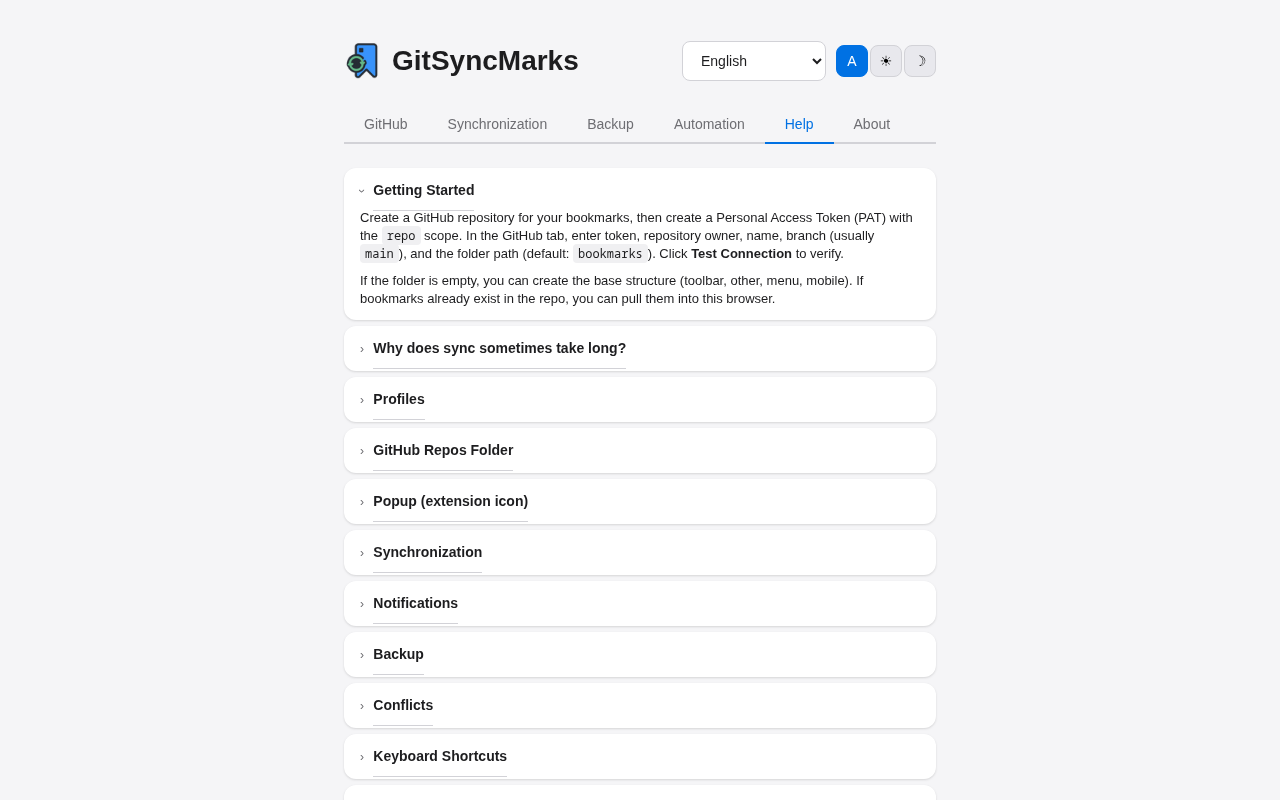
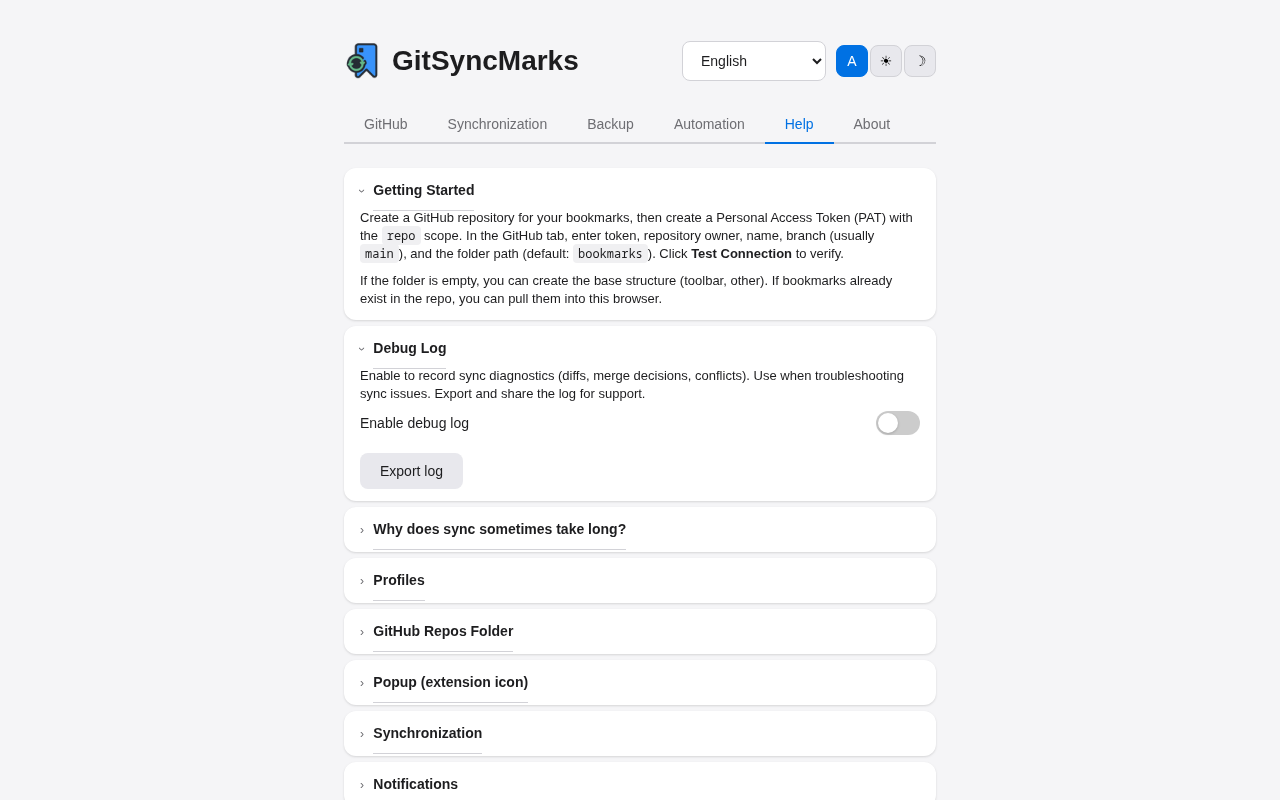
feat: update bookmark profiles and add mobile app details
- Expanded the bookmark profiles feature to support up to 10 profiles with separate GitHub repositories, enhancing user flexibility.
- Added keyboard shortcuts for quick sync and settings access, improving user efficiency.
- Introduced a debug log feature for sync diagnostics, aiding in troubleshooting.
- Included information about the mobile companion app, GitSyncMarks-Mobile, across multiple language sections, ensuring comprehensive user guidance.

diff --git a/store-assets/chrome-store.md b/store-assets/chrome-store.md
@@ -17,7 +17,7 @@ Features:
 • Per-file storage: each bookmark is an individual JSON file — human-readable and diff-friendly
 • Three-way merge: automatic conflict-free sync when changes happen on both sides
 • Cross-browser: works with Chrome, Chromium, Brave, Edge, and Firefox
-• Multiple bookmark profiles: work and personal sets with separate GitHub repos; switch replaces local bookmarks
+• Multiple bookmark profiles: up to 10 profiles with separate GitHub repos; switch replaces local bookmarks
 • GitHub Repos folder: optional folder with bookmarks to all your GitHub repositories (public and private)
 • Onboarding: create folder or pull bookmarks when configuring a new profile
 • Sync profiles: real-time, frequent, normal, or power-save (preset intervals and debounce)
@@ -30,6 +30,9 @@ Features:
 • Import/Export: back up and restore bookmarks or settings as JSON files (clear UI with file picker)
 • Theme: light, dark, or auto (system) for options and popup
 • Multilanguage: English, German, French, and Spanish with manual language selection
+• Keyboard shortcuts: quick sync (Ctrl+Shift+.), open settings (Ctrl+Shift+,) — customizable
+• Debug log: Help tab — enable for sync diagnostics, export for troubleshooting
+• Mobile companion: GitSyncMarks-Mobile (iOS + Android) — view bookmarks on the go, read-only sync from your repo
 • No external server — communicates directly with the GitHub API using your Personal Access Token
 
 How it works:
@@ -48,6 +51,8 @@ You can add bookmarks without even opening the browser. GitSyncMarks includes a 
 You can also create bookmark files directly in the repository — just add a JSON file with "title" and "url" to any bookmark folder. The extension detects new files automatically on the next sync and normalizes them into its canonical format.
 
 GitSyncMarks is fully open source: https://github.com/d0dg3r/GitSyncMarks
+
+Mobile app: GitSyncMarks-Mobile (iOS + Android) — view your bookmarks on the go. Read-only companion; F-Droid and Google Play coming soon. https://github.com/d0dg3r/GitSyncMarks-Mobile
 
 ### Category
 Productivity
@@ -72,7 +77,7 @@ Funktionen:
 • Einzeldatei-Speicherung: Jedes Lesezeichen ist eine eigene JSON-Datei — lesbar und diff-freundlich
 • Drei-Wege-Merge: automatische konfliktfreie Synchronisierung bei Änderungen auf beiden Seiten
 • Cross-Browser: funktioniert mit Chrome, Chromium, Brave, Edge und Firefox
-• Mehrere Lesezeichen-Profile: Arbeit und Privat mit getrennten GitHub-Repos; Wechsel ersetzt lokale Lesezeichen
+• Mehrere Lesezeichen-Profile: bis zu 10 Profile mit getrennten GitHub-Repos; Wechsel ersetzt lokale Lesezeichen
 • GitHub-Repos-Ordner: optionaler Ordner mit Lesezeichen zu allen deinen GitHub-Repositories (öffentlich und privat)
 • Onboarding: Ordner anlegen oder Lesezeichen laden beim Konfigurieren eines neuen Profils
 • Sync-Profile: Echtzeit, häufig, normal oder Stromsparen (vorkonfigurierte Intervalle)
@@ -85,6 +90,9 @@ Funktionen:
 • Import/Export: Lesezeichen oder Einstellungen als JSON-Dateien sichern und wiederherstellen (klare UI mit Dateiauswahl)
 • Design: Hell, Dunkel oder Auto (System) für Einstellungen und Popup
 • Mehrsprachig: Englisch, Deutsch, Französisch und Spanisch mit manueller Sprachauswahl
+• Tastenkürzel: Schnell-Sync (Strg+Umschalt+.), Einstellungen öffnen (Strg+Umschalt+,) — anpassbar
+• Debug-Log: Hilfe-Tab — für Sync-Diagnostik aktivierbar, exportierbar
+• Mobile-Begleiter: GitSyncMarks-Mobile (iOS + Android) — Lesezeichen unterwegs ansehen
 • Kein externer Server — kommuniziert direkt mit der GitHub API über deinen Personal Access Token
 
 So funktioniert es:
@@ -103,6 +111,8 @@ Du kannst Lesezeichen hinzufügen, ohne den Browser zu öffnen. GitSyncMarks ent
 Du kannst auch Lesezeichen-Dateien direkt im Repository erstellen — füge einfach eine JSON-Datei mit „title" und „url" in einen Lesezeichen-Ordner ein. Die Extension erkennt neue Dateien beim nächsten Sync automatisch und normalisiert sie in das kanonische Format.
 
 GitSyncMarks ist vollständig Open Source: https://github.com/d0dg3r/GitSyncMarks
+
+Mobile-App: GitSyncMarks-Mobile (iOS + Android) — Lesezeichen unterwegs. Nur Lese-Zugriff; F-Droid und Google Play bald. https://github.com/d0dg3r/GitSyncMarks-Mobile
 
 ### Category
 Produktivität
@@ -127,7 +137,7 @@ Fonctionnalités :
 • Stockage par fichier : chaque favori est un fichier JSON individuel — lisible et adapté au diff
 • Fusion triple : synchronisation automatique sans conflit lorsque des changements surviennent des deux côtés
 • Multi-navigateur : fonctionne avec Chrome, Chromium, Brave, Edge et Firefox
-• Plusieurs profils de favoris : travail et personnel avec des dépôts GitHub séparés ; le changement remplace les favoris locaux
+• Plusieurs profils de favoris : jusqu'à 10 profils avec des dépôts GitHub séparés ; le changement remplace les favoris locaux
 • Dossier Repos GitHub : dossier optionnel avec des favoris vers tous vos dépôts GitHub (publics et privés)
 • Intégration : créer le dossier ou récupérer les favoris lors de la configuration d'un nouveau profil
 • Profils de sync : temps réel, fréquent, normal ou économie d'énergie (intervalles prédéfinis)
@@ -140,6 +150,9 @@ Fonctionnalités :
 • Import/Export : sauvegarder et restaurer les favoris ou les paramètres en JSON (interface claire avec sélection de fichier)
 • Thème : clair, sombre ou auto (système) pour les options et le popup
 • Multilingue : anglais, allemand, français et espagnol avec sélection manuelle de la langue
+• Raccourcis clavier : sync rapide, paramètres — personnalisables
+• Journal de débogage : onglet Aide — pour le dépannage de sync
+• Application mobile : GitSyncMarks-Mobile (iOS + Android) — consultez vos favoris en déplacement
 • Pas de serveur externe — communique directement avec l'API GitHub via votre Personal Access Token
 
 Comment ça marche :
@@ -158,6 +171,8 @@ Vous pouvez ajouter des favoris sans ouvrir le navigateur. GitSyncMarks inclut u
 Vous pouvez aussi créer des fichiers de favoris directement dans le dépôt — ajoutez simplement un fichier JSON avec « title » et « url » dans un dossier de favoris. L'extension détecte les nouveaux fichiers au prochain sync et les normalise.
 
 GitSyncMarks est entièrement open source : https://github.com/d0dg3r/GitSyncMarks
+
+Application mobile : GitSyncMarks-Mobile (iOS + Android) — favoris en déplacement. Lecture seule ; F-Droid et Google Play bientôt. https://github.com/d0dg3r/GitSyncMarks-Mobile
 
 ### Category
 Productivité
@@ -182,7 +197,7 @@ Características:
 • Almacenamiento por archivo: cada marcador es un archivo JSON individual — legible y apto para diff
 • Fusión triple: sincronización automática sin conflictos cuando hay cambios en ambos lados
 • Multi-navegador: funciona con Chrome, Chromium, Brave, Edge y Firefox
-• Múltiples perfiles de marcadores: trabajo y personal con repos GitHub separados; el cambio reemplaza los marcadores locales
+• Múltiples perfiles de marcadores: hasta 10 perfiles con repos GitHub separados; el cambio reemplaza los marcadores locales
 • Carpeta Repos GitHub: carpeta opcional con marcadores a todos tus repositorios GitHub (públicos y privados)
 • Integración: crear carpeta o importar marcadores al configurar un nuevo perfil
 • Perfiles de sync: tiempo real, frecuente, normal o ahorro de energía (intervalos predefinidos)
@@ -195,6 +210,9 @@ Características:
 • Importar/Exportar: respaldar y restaurar marcadores o ajustes en JSON (interfaz clara con selector de archivo)
 • Tema: claro, oscuro o auto (sistema) para opciones y popup
 • Multilingüe: inglés, alemán, francés y español con selección manual del idioma
+• Atajos de teclado: sync rápido, configuración — personalizables
+• Registro de depuración: pestaña Ayuda — para diagnosticar la sincronización
+• App móvil: GitSyncMarks-Mobile (iOS + Android) — consulta tus marcadores en movimiento
 • Sin servidor externo — se comunica directamente con la API de GitHub usando tu Personal Access Token
 
 Cómo funciona:
@@ -213,6 +231,8 @@ Puedes añadir marcadores sin abrir el navegador. GitSyncMarks incluye un workfl
 También puedes crear archivos de marcadores directamente en el repositorio — solo añade un archivo JSON con « title » y « url » en una carpeta de marcadores. La extensión detecta los nuevos archivos en la próxima sincronización y los normaliza.
 
 GitSyncMarks es totalmente open source: https://github.com/d0dg3r/GitSyncMarks
+
+App móvil: GitSyncMarks-Mobile (iOS + Android) — marcadores en movimiento. Solo lectura; F-Droid y Google Play próximamente. https://github.com/d0dg3r/GitSyncMarks-Mobile
 
 ### Category
 Productividad
@@ -290,6 +310,7 @@ All regions
 
 ### English (EN)
 - [x] `en/chrome-github.png` — GitHub tab: Personal Access Token, repository owner/name, branch, file path, test connection
+- [ ] `en/chrome-about.png` — About tab (optional: shows Mobile App block)
 - [x] `en/chrome-settings.png` — Synchronization tab
 - [x] `en/chrome-import-export.png` — Backup tab
 - [x] `en/chrome-automation.png` — Automation tab

diff --git a/store-assets/firefox-store.md b/store-assets/firefox-store.md
@@ -17,7 +17,7 @@ Features:
 • Per-file storage: each bookmark is an individual JSON file — human-readable and diff-friendly
 • Three-way merge: automatic conflict-free sync when changes happen on both sides
 • Full Firefox support including the Bookmarks Menu folder
-• Multiple bookmark profiles: work and personal sets with separate GitHub repos; switch replaces local bookmarks
+• Multiple bookmark profiles: up to 10 profiles with separate GitHub repos; switch replaces local bookmarks
 • GitHub Repos folder: optional folder with bookmarks to all your GitHub repositories (public and private)
 • Onboarding: create folder or pull bookmarks when configuring a new profile
 • Sync profiles: real-time, frequent, normal, or power-save
@@ -30,6 +30,9 @@ Features:
 • Import/Export: back up and restore bookmarks or settings as JSON files (clear UI with file picker)
 • Theme: light, dark, or auto (system) for options and popup
 • Multilanguage: English, German, French, and Spanish with manual language selection
+• Keyboard shortcuts: quick sync (Ctrl+Shift+.), open settings (Ctrl+Shift+,) — customizable
+• Debug log: Help tab — enable for sync diagnostics, export for troubleshooting
+• Mobile companion: GitSyncMarks-Mobile (iOS + Android) — view bookmarks on the go, read-only sync from your repo
 • No external server — communicates directly with the GitHub API using your Personal Access Token
 
 How it works:
@@ -48,6 +51,8 @@ You can add bookmarks without even opening Firefox. GitSyncMarks includes a GitH
 You can also create bookmark files directly in the repository — just add a JSON file with "title" and "url" to any bookmark folder. The extension detects new files automatically on the next sync.
 
 GitSyncMarks is fully open source: https://github.com/d0dg3r/GitSyncMarks
+
+Mobile app: GitSyncMarks-Mobile (iOS + Android) — view your bookmarks on the go. Read-only companion; F-Droid and Google Play coming soon. https://github.com/d0dg3r/GitSyncMarks-Mobile
 
 ### Categories
 Bookmarks
@@ -72,9 +77,10 @@ Funktionen:
 • Einzeldatei-Speicherung: Jedes Lesezeichen ist eine eigene JSON-Datei
 • Drei-Wege-Merge: automatische konfliktfreie Synchronisierung
 • Volle Firefox-Unterstützung inkl. Lesezeichen-Menü
-• Mehrere Profile, GitHub Repos-Ordner, Onboarding, Sync-Profile
+• Bis zu 10 Profile, GitHub Repos-Ordner, Onboarding, Sync-Profile
 • Auto-Sync, periodischer Sync, manuelles Push/Pull
-• Import/Export, Design Hell/Dunkel, Mehrsprachig
+• Import/Export, Design Hell/Dunkel, Mehrsprachig, Tastenkürzel, Debug-Log
+• Mobile-Begleiter: GitSyncMarks-Mobile (iOS + Android)
 
 So funktioniert es:
 1. GitHub-Repository erstellen
@@ -83,6 +89,8 @@ So funktioniert es:
 4. „Jetzt synchronisieren" klicken — fertig!
 
 GitSyncMarks ist vollständig Open Source: https://github.com/d0dg3r/GitSyncMarks
+
+Mobile-App: GitSyncMarks-Mobile (iOS + Android) — Lesezeichen unterwegs. https://github.com/d0dg3r/GitSyncMarks-Mobile
 
 ### Categories
 Lesezeichen
@@ -105,9 +113,10 @@ GitSyncMarks synchronise vos favoris Firefox avec un dépôt GitHub — bidirect
 
 Fonctionnalités :
 • Stockage par fichier, fusion triple, support complet Firefox (y compris le Menu favoris)
-• Plusieurs profils, dossier Repos GitHub, intégration, profils de sync
+• Jusqu'à 10 profils, dossier Repos GitHub, intégration, profils de sync
 • Auto-sync, sync périodique, Push/Pull manuel
-• Import/Export, thème clair/sombre, multilingue
+• Import/Export, thème clair/sombre, multilingue, raccourcis clavier, journal de débogage
+• Application mobile : GitSyncMarks-Mobile (iOS + Android)
 
 Comment ça marche :
 1. Créer un dépôt GitHub
@@ -116,6 +125,8 @@ Comment ça marche :
 4. Cliquer sur « Synchroniser maintenant » — terminé !
 
 GitSyncMarks est entièrement open source : https://github.com/d0dg3r/GitSyncMarks
+
+Application mobile : GitSyncMarks-Mobile (iOS + Android). https://github.com/d0dg3r/GitSyncMarks-Mobile
 
 ### Categories
 Favoris
@@ -138,9 +149,10 @@ GitSyncMarks sincroniza tus marcadores de Firefox con un repositorio GitHub — 
 
 Características:
 • Almacenamiento por archivo, fusión triple, soporte completo Firefox (incl. menú de marcadores)
-• Múltiples perfiles, carpeta Repos GitHub, integración, perfiles de sync
+• Hasta 10 perfiles, carpeta Repos GitHub, integración, perfiles de sync
 • Auto-sync, sync periódico, Push/Pull manual
-• Importar/Exportar, tema claro/oscuro, multilingüe
+• Importar/Exportar, tema claro/oscuro, multilingüe, atajos de teclado, registro de depuración
+• App móvil: GitSyncMarks-Mobile (iOS + Android)
 
 Cómo funciona:
 1. Crear un repositorio GitHub
@@ -149,6 +161,8 @@ Cómo funciona:
 4. Clic en « Sincronizar ahora » — ¡listo!
 
 GitSyncMarks es totalmente open source: https://github.com/d0dg3r/GitSyncMarks
+
+App móvil: GitSyncMarks-Mobile (iOS + Android). https://github.com/d0dg3r/GitSyncMarks-Mobile
 
 ### Categories
 Marcadores
@@ -225,4 +239,4 @@ All regions
 - [x] `en/firefox-import-export.png` — Backup tab
 - [x] `en/firefox-automation.png` — Automation tab
 - [x] `en/firefox-help.png` — Help tab
-- [x] `en/firefox-about.png` — About tab
+- [x] `en/firefox-about.png` — About tab (includes Mobile App block; regenerate after changes)
